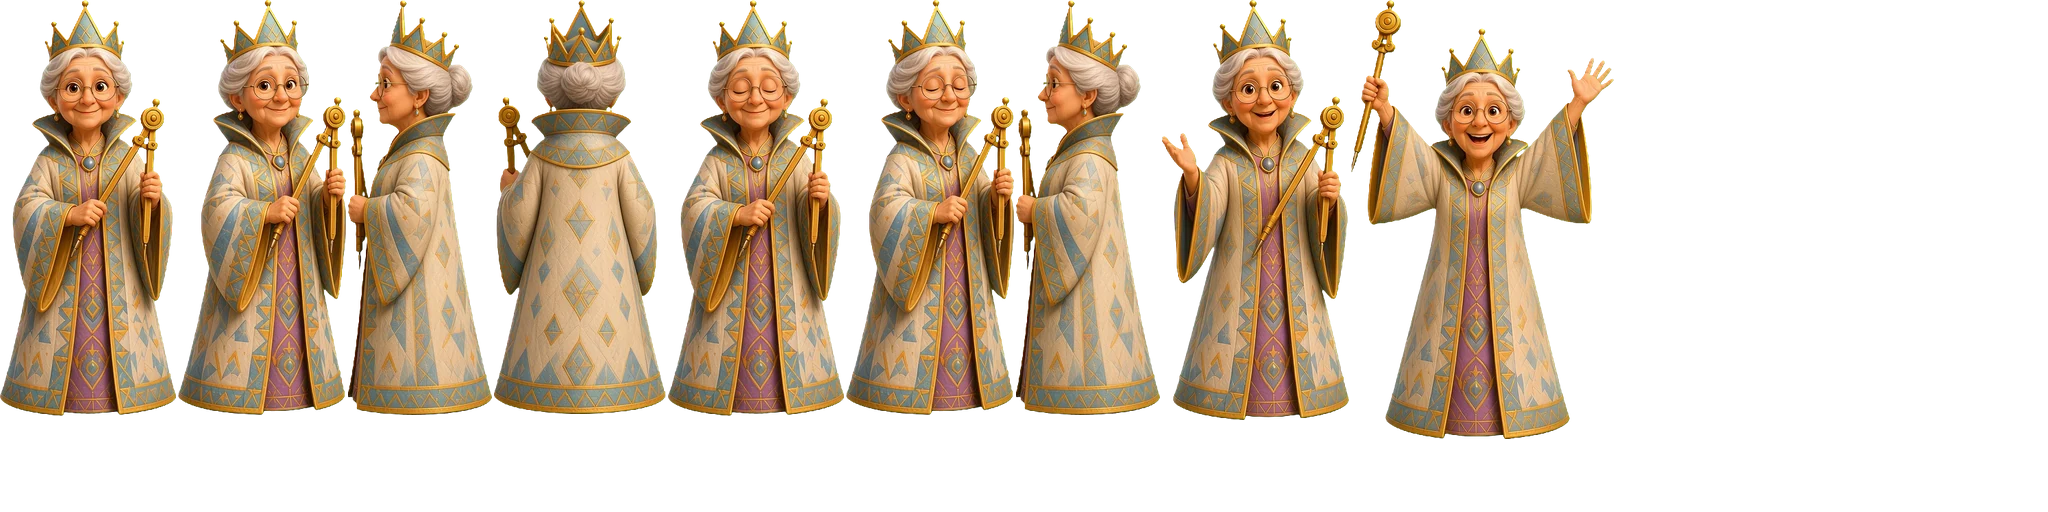
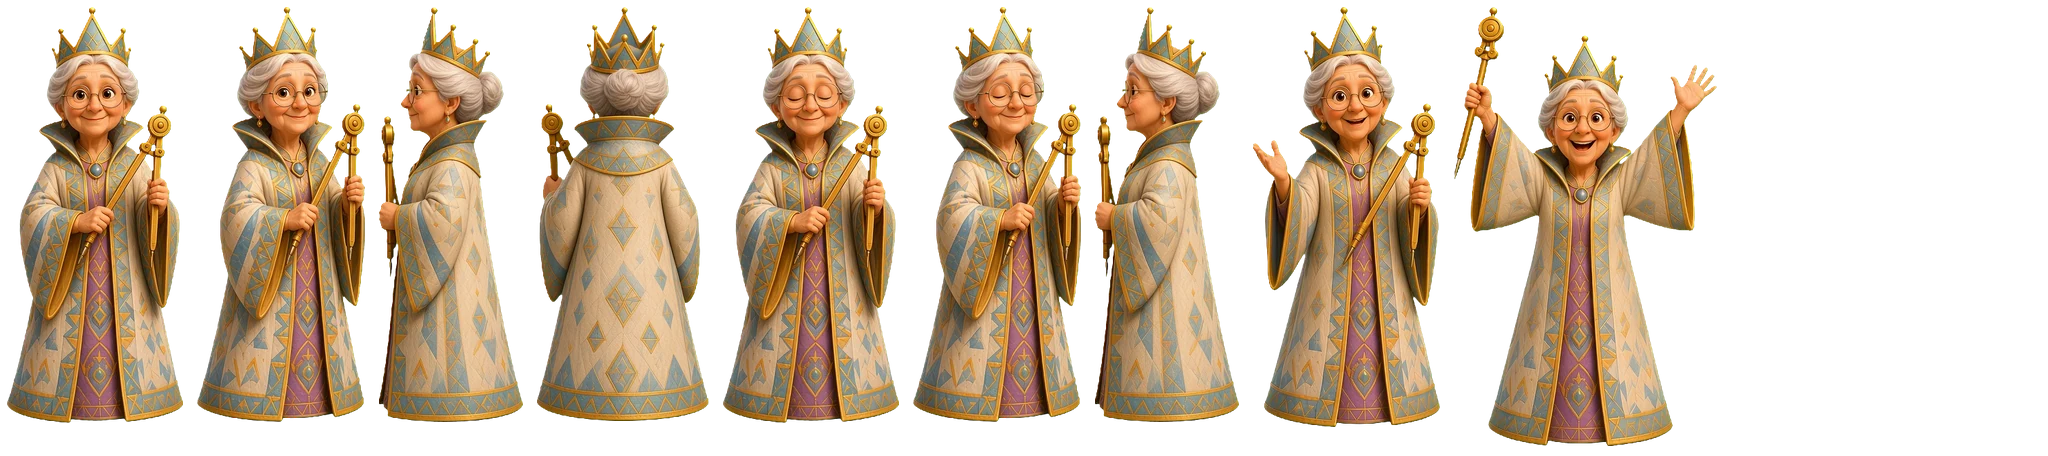
R3: 2.5D-герои из нарисованных атласов (виды, бег, позы, моргание)

diff --git a/js/world.js b/js/world.js
@@ -118,102 +118,10 @@ function capTop(r,th,c,p,x,y,z){return mesh(new THREE.SphereGeometry(r,28,14,0,M
 function spike(p,c,d,r0,len,w){d=d.clone().normalize();const m=mesh(GEO.cone,c,0,0,0,p,[w,len,w]);m.position.copy(d).multiplyScalar(r0+len*.38);m.quaternion.setFromUnitVectors(V3(0,1,0),d);return m}
 function sdir(pol,az){return V3(Math.sin(pol)*Math.sin(az),Math.cos(pol),Math.sin(pol)*Math.cos(az))}
 function rng(seed){let s=seed||7;return()=>{s=(s*9301+49297)%233280;return s/233280}}
-function makeDania(){const root=new THREE.Group(),body=new THREE.Group();root.add(body);const skin=0xffcfa8,hoodie=0xf57a1a,hoodD=0xd9600c,blue=0x3768b8,shoe=0x3a72c4;
- const legs=[],arms=[];
- for(const s of [-1,1]){const hip=grp(body,s*.12,.6,0);capsule(.066,.24,skin,hip,0,-.3,0);mesh(GEO.cyl,blue,0,-.08,0,hip,[.155,.26,.165]);
-  mesh(GEO.cyl,0xffffff,0,-.46,0,hip,[.074,.11,.074]);mesh(GEO.cyl,0xf2c84a,0,-.425,0,hip,[.077,.018,.077]);
-  const sh=grp(hip,0,-.53,.05);mesh(GEO.box,0xf6f3ec,0,-.04,0,sh,[.17,.05,.33]);ell(shoe,sh,0,.01,.01,.1,.075,.165);ell(shoe,sh,0,.045,-.08,.085,.075,.08);
-  for(let i=0;i<3;i++)mesh(GEO.box,0xffffff,0,.07-i*.012,.04+i*.035,sh,[.075,.014,.014]);legs.push(hip)}
- const torso=grp(body,0,.95,0);mesh(new THREE.CapsuleGeometry(.25,.2,6,16),hoodie,0,0,0,torso,[1.08,1,.84]);mesh(GEO.cyl,hoodD,0,-.27,0,torso,[.265,.07,.22]);
- ell(hoodD,torso,0,-.13,.165,.17,.075,.05);
- const tri=new THREE.Mesh(new THREE.RingGeometry(.06,.095,3),M(0xffdc3a,{em:0x6a5000,ei:.35}));tri.rotation.z=Math.PI/2;tri.position.set(0,.06,.214);torso.add(tri);
- for(const s of [-1,1]){const st=mesh(GEO.cylL,0xffffff,s*.055,.17,.2,torso,[.013,.14,.013]);st.rotation.x=-.25;mesh(GEO.sphL,0xffffff,s*.055,.1,.215,torso,.022)}
- const hood=mesh(new THREE.TorusGeometry(.17,.075,8,18),hoodie,0,.27,-.05,torso);hood.rotation.x=Math.PI/2.3;ell(hoodie,torso,0,.15,-.19,.2,.18,.1);
- mesh(GEO.cyl,skin,0,.36,0,torso,[.075,.1,.075]);
- for(const s of [-1,1]){const sh=grp(torso,s*.3,.17,0);capsule(.074,.24,hoodie,sh,0,-.17,0);mesh(GEO.cyl,hoodD,0,-.33,0,sh,[.078,.05,.078]);ell(skin,sh,0,-.4,0,.075,.08,.075);arms.push(sh)}
- const wand=grp(arms[1],0,-.4,0);wand.rotation.x=-1.05;const st=mesh(GEO.cylL,0xd4a020,0,0,.2,wand,[.022,.42,.022]);st.rotation.x=Math.PI/2;
- const star=new THREE.Mesh(starGeo(.13),M(0xffd83a,{em:0xffb000,ei:.5}));star.position.set(0,0,.44);star.rotation.x=1.05;wand.add(star);const glow=new THREE.Sprite(new THREE.SpriteMaterial({map:TEX.dot,color:0xfff2a0,transparent:true,depthWrite:false,blending:THREE.AdditiveBlending}));glow.position.copy(star.position);glow.scale.setScalar(.5);wand.add(glow);
- const head=grp(body,0,1.52,0);mesh(GEO.sph,skin,0,0,0,head,.4);const F=makeFace('dania');faceCap(F,.4,head,0,0,1.9,1.5);
- for(const s of [-1,1])ell(skin,head,s*.39,-.03,0,.07,.1,.07);ell(0xffbf98,head,0,-.07,.395,.045,.04,.04);
- const hc=0x7a3d18,hd=0x5c2a0e;const cap=capTop(.43,1.6,hc,head,0,.01,-.01);cap.rotation.x=-.55;for(const s of [-1,1]){spike(head,hd,V3(s*1,.25,-.1),.34,.2,.1);spike(head,hc,V3(s*1,.05,-.35),.34,.18,.1)}
- for(let i=0;i<8;i++)spike(head,i%2?hd:hc,sdir(.42,i/8*6.283+.3),.33,.24,.1);
- for(let i=0;i<11;i++){const az=Math.PI*.42+i/11*Math.PI*1.16;spike(head,i%2?hc:hd,sdir(1.0+(i%3)*.12,az),.33,.22,.1)}
- spike(head,hc,V3(.05,1,.1),.36,.3,.11);
- [[-.55,.95,.22],[-.2,.85,.24],[.15,.82,.24],[.5,.9,.22],[.85,1.1,.2]].forEach(([az,pol,l],i)=>{const d=sdir(pol,az);d.x+=.35;spike(head,i%2?hd:hc,d,.34,l,.095)});
- const ch={n:'dania',root,body,legs,arms,head,torso,wand,star,glow,F,h:2.0,ph:0,kickT:-9,anim:'idle',look:null,air:0,sit:0,cheerT:-9};
- ch.update=function(dt,sp){this.F.step(dt,'dania');const a=this.anim;this.ph+=dt*(4+sp*2.2);const run=a==='run'?Math.min(1,sp/4):0;
-  const sw=Math.sin(this.ph)*.85*run,br=Math.sin(T*2.3);let hl=sw,hr=-sw,al=-sw*.8,ar=sw*.8,by=Math.abs(Math.sin(this.ph))*.08*run+br*.008,tilt=run*.14;
-  if(a==='air'){hl=-.5;hr=.3;al=-2.4;ar=-2.2;by=0}
-  if(a==='sit'){hl=hr=-1.45;al=ar=-.5;by=-.46}
-  if(T-this.kickT<.35){const u=(T-this.kickT)/.35;hr=-Math.sin(u*Math.PI)*1.6;al=-.6;}
-  if(this.hold){ar=-1.45;this.glow.scale.setScalar(.7+Math.sin(T*12)*.12)}else this.glow.scale.setScalar(.45);
-  if(T-this.cheerT<1.6){al=-2.7+Math.sin(T*14)*.25;ar=-2.7-Math.sin(T*14)*.25;by+=Math.abs(Math.sin((T-this.cheerT)*6))*.12}
-  if(talking('dania')&&a!=='run'){al=-.3+Math.sin(T*3)*.2}
-  if(a==='idle'&&!this.hold&&T-this.cheerT>1.6&&!talking('dania')){al=.06+br*.04;ar=-.25+br*.04}
-  this.legs[0].rotation.x=lerp(this.legs[0].rotation.x,hl,.4);this.legs[1].rotation.x=lerp(this.legs[1].rotation.x,hr,.4);this.arms[0].rotation.x=lerp(this.arms[0].rotation.x,al,.35);this.arms[1].rotation.x=lerp(this.arms[1].rotation.x,ar,.35);
-  this.arms[0].rotation.z=-.14-run*.1;this.arms[1].rotation.z=.14+run*.1;this.body.position.y=by;this.body.rotation.x=tilt;this.body.rotation.y=Math.sin(this.ph)*.12*run;
-  this.torso.scale.set(1+br*.012,1+br*.02,1+br*.012);this.head.position.y=1.52+br*.012+Math.abs(Math.sin(this.ph))*.02*run;this.head.rotation.z=a==='idle'?Math.sin(T*.9)*.06:0;lookHead(this,1.4)};
- CHARS.push(ch);SCENE.add(root);ch.shadow=blobShadow();ch.shadow.scale.setScalar(1.1);return ch}
-// голова поворачивается к камере (или к цели), глаза тоже
-function lookHead(ch,lim){const hp=new THREE.Vector3();ch.head.getWorldPosition(hp);const tg=ch.look||CAM.position;const dx=tg.x-hp.x,dz=tg.z-hp.z,dy=tg.y-hp.y;let ya=Math.atan2(dx,dz)-ch.root.rotation.y-(ch.body.rotation.y||0);ya=Math.atan2(Math.sin(ya),Math.cos(ya));
- const back=Math.abs(ya)>lim+.6;const t=back?0:clamp(ya,-lim*.6,lim*.6);ch.head.rotation.y=lerp(ch.head.rotation.y,t,.12);ch.F.lx=back?0:clamp((ya-t)*1.5,-1,1);ch.F.ly=clamp(-Math.atan2(dy,Math.hypot(dx,dz))*1.2,-1,1)}
-function makeKrug(){const root=new THREE.Group(),body=new THREE.Group();root.add(body);const col=0xffbf2a;
- const skinT=cvTex(256,128,(x,w,h)=>{const g=x.createLinearGradient(0,0,0,h);g.addColorStop(0,'#ffd75a');g.addColorStop(1,'#f5a81e');x.fillStyle=g;x.fillRect(0,0,w,h);x.strokeStyle='rgba(255,240,180,.5)';x.lineWidth=2;const r=rng(5);for(let i=0;i<9;i++){x.beginPath();x.moveTo(0,r()*h);x.bezierCurveTo(w*.3,r()*h,w*.7,r()*h,w,r()*h);x.stroke()}});
- const ball=grp(body,0,.56,0);mesh(GEO.sph,new THREE.MeshLambertMaterial({map:skinT,emissive:0x6a3000,emissiveIntensity:.12}),0,0,0,ball,.46);const F=makeFace('krug');faceCap(F,.46,ball,0,0,1.7,1.45);
- const shine=ell(M(0xffffff,{basic:1,op:.35}),ball,-.18,.26,.3,.1,.06,.03);shine.rotation.z=.6;
- const feet=[],hands=[];for(const s of [-1,1]){const f=grp(body,s*.16,0,.05);ell(0xf09a12,f,0,.06,.04,.12,.065,.17);ell(0xf09a12,f,0,.13,-.02,.06,.07,.06);feet.push(f);
-  const h=grp(ball,s*.44,-.04,.02);const fl=ell(col,h,s*.06,-.04,0,.06,.13,.075);fl.rotation.z=s*.7;hands.push(h)}
- const ch={n:'krug',root,body,ball,head:ball,F,feet,hands,h:1.02,ph:0,anim:'idle',look:null,hop:0,roll:0,cheerT:-9};
- ch.update=function(dt,sp){this.F.step(dt,'krug');this.ph+=dt*(sp>0.3?9:0);let hop=sp>.3?Math.abs(Math.sin(this.ph))*.22:0;
-  if(T-this.cheerT<1.6)hop=Math.abs(Math.sin((T-this.cheerT)*7))*.35;this.hop=hop;this.body.position.y=hop;const br=Math.sin(T*2.6);
-  this.ball.scale.set(1+br*.018,1-br*.018,1+br*.018);const ch2=T-this.cheerT<1.6,tk=talking('krug');
-  this.hands[0].rotation.z=ch2?-1.9+Math.sin(T*14)*.3:tk?-.4-Math.sin(T*8)*.35:Math.sin(T*1.6)*.12;this.hands[1].rotation.z=ch2?1.9-Math.sin(T*14)*.3:tk?.4+Math.sin(T*8)*.35:-Math.sin(T*1.6)*.12;
-  const fs=sp>.3?Math.sin(this.ph)*.5:0;this.feet[0].rotation.x=fs;this.feet[1].rotation.x=-fs;
-  this.ball.rotation.z=Math.sin(T*1.7)*.05;lookHead(this,1.2)};
- CHARS.push(ch);SCENE.add(root);ch.shadow=blobShadow();ch.shadow.scale.setScalar(1);return ch}
-function makeQueen(){const root=new THREE.Group(),body=new THREE.Group();root.add(body);const robe=0xefe6cf,skin=0xffd6bc,gold=M(0xe8b22a,{em:0x7a5000,ei:.35}),hair=0xdedde6;
- const pat=cvTex(256,256,(x,w,h)=>{x.fillStyle='#f1e8d0';x.fillRect(0,0,w,h);x.strokeStyle='#d9a93a';x.lineWidth=4;for(let r=0;r<=4;r++){x.beginPath();x.moveTo(0,r*64);x.lineTo(w,r*64);x.stroke()}const cs=['#6fa4dc','#d9a93a','#2f5fa8'];for(let r=0;r<4;r++)for(let c=0;c<4;c++){x.fillStyle=cs[(r+c)%3];x.beginPath();const cx=c*64+32+(r%2)*32,cy=r*64+34;x.moveTo(cx,cy-20);x.lineTo(cx+19,cy+16);x.lineTo(cx-19,cy+16);x.fill()}});pat.wrapS=pat.wrapT=THREE.RepeatWrapping;pat.repeat.set(4,2);
- const pm=new THREE.MeshLambertMaterial({map:pat});
- const pts=[];for(let i=0;i<=14;i++){const u=i/14;pts.push(new THREE.Vector2(.66-.42*Math.pow(u,.75)+.03*Math.sin(u*3),u*1.32))}body.add(new THREE.Mesh(new THREE.LatheGeometry(pts,28),pm));
- mesh(new THREE.TorusGeometry(.64,.035,8,32),gold,0,.03,0,body).rotation.x=Math.PI/2;
- const panel=cvTex(64,256,(x,w,h)=>{x.fillStyle='#8a5cc8';x.fillRect(0,0,w,h);x.fillStyle='#e8c050';for(let i=0;i<6;i++){const cy=20+i*42;x.beginPath();x.moveTo(32,cy-12);x.lineTo(44,cy);x.lineTo(32,cy+12);x.lineTo(20,cy);x.fill()}x.fillStyle='#d9a93a';x.fillRect(0,0,6,h);x.fillRect(w-6,0,6,h)});
- const fp=mesh(new THREE.CylinderGeometry(.215,.44,1.25,14,1,true,-.42,.84),new THREE.MeshLambertMaterial({map:panel,side:THREE.DoubleSide}),0,.66,.07,body);
- const torso=grp(body,0,1.42,0);mesh(new THREE.CapsuleGeometry(.21,.2,6,14),pm,0,0,0,torso);mesh(new THREE.CylinderGeometry(.12,.2,.36,12,1,true),M(0x8a5cc8),0,0,.06,torso,[1,1,.9]).material.side=THREE.DoubleSide;
- const col=mesh(new THREE.CylinderGeometry(.34,.2,.36,20,1,true,Math.PI*.3,Math.PI*1.4),new THREE.MeshLambertMaterial({map:pat,side:THREE.DoubleSide}),0,.3,-.02,torso);
- mesh(new THREE.TorusGeometry(.2,.035,8,18),gold,0,.16,0,torso).rotation.x=Math.PI/2;
- const arms=[];for(const s of [-1,1]){const sh=grp(torso,s*.26,.14,0);capsule(.075,.24,robe,sh,0,-.15,0);mesh(new THREE.CylinderGeometry(.08,.17,.3,14,1,true),pm,0,-.32,0,sh).material.side=THREE.DoubleSide;ell(skin,sh,0,-.49,0,.07,.075,.07);arms.push(sh)}
- const sc=grp(arms[1],0,-.49,.03);for(const s of [-1,1]){const l=mesh(GEO.cylL,gold,s*.08,.15,0,sc,[.032,1.3,.032]);l.rotation.z=-s*.12}
- mesh(GEO.cyl,gold,0,.82,0,sc,[.07,.05,.07]).rotation.x=Math.PI/2;mesh(GEO.cylL,gold,0,.93,0,sc,[.03,.16,.03]);mesh(GEO.sph,gold,0,1.03,0,sc,.05);
- mesh(GEO.cone,0x555566,.155,-.56,0,sc,[.02,.12,.02]).rotation.x=Math.PI;mesh(GEO.cone,0x3a5fb0,-.155,-.56,0,sc,[.03,.12,.03]).rotation.x=Math.PI;
- const head=grp(body,0,1.9,0);mesh(GEO.sph,skin,0,0,0,head,.31);const F=makeFace('queen');faceCap(F,.31,head,0,0,1.9,1.5);ell(0xffc4a8,head,0,-.05,.305,.04,.035,.035);
- const hc=capTop(.33,1.25,hair,head,0,.01,-.02);hc.rotation.x=-.5;ell(hair,head,0,.3,-.18,.17,.15,.17);for(const s of [-1,1])ell(hair,head,s*.27,-.02,-.08,.08,.14,.12);
- const cr=grp(head,0,.27,.02);cr.rotation.x=-.12;mesh(new THREE.CylinderGeometry(.22,.2,.1,20),gold,0,0,0,cr);const blue=M(0x6fa8e0,{em:0x1a3a70,ei:.4});
- for(let i=0;i<5;i++){const a=i/5*6.283;const x=Math.sin(a)*.17,z=Math.cos(a)*.17;mesh(GEO.cone,i%2?blue:gold,x,.2,z,cr,[.06,.32,.06]);mesh(GEO.sph,gold,x,.37,z,cr,.035)}
- mesh(GEO.cone,blue,0,.26,0,cr,[.1,.42,.1]);mesh(GEO.sph,M(0xff5a7a,{em:0x801020,ei:.4}),0,0,.205,cr,.045);
- const ch={n:'queen',root,body,head,torso,arms,F,h:2.6,anim:'idle',look:null,cheerT:-9};
- ch.update=function(dt){this.F.step(dt,'queen');const br=Math.sin(T*1.8);this.torso.position.y=1.42+br*.012;this.torso.scale.set(1+br*.01,1+br*.015,1+br*.01);this.head.position.y=1.9+br*.014;const tk=talking('queen');this.arms[1].rotation.x=lerp(this.arms[1].rotation.x,tk?-.7+Math.sin(T*3)*.12:-.22,.1);this.arms[0].rotation.x=lerp(this.arms[0].rotation.x,tk?-.4+Math.sin(T*2.5)*.2:0,.1);
-  this.arms[0].rotation.z=-.2;this.arms[1].rotation.z=.18;this.body.rotation.z=Math.sin(T*1.1)*.015;this.head.rotation.z=Math.sin(T*.8)*.04;lookHead(this,1.2)};
- CHARS.push(ch);SCENE.add(root);ch.shadow=blobShadow();ch.shadow.scale.setScalar(1.5);return ch}
-// Кривуля: клубок тонких фиолетовых линий — голова, тело, длинные спутанные руки и ноги, глаза и корона
 function tanglePts(n,seed,R,cy){const rn=rng(seed);const P=[];for(let i=0;i<n;i++){const a=rn()*6.283,b=(rn()-.5)*2.6;P.push(V3(Math.cos(a)*Math.cos(b)*R,cy+Math.sin(b)*R,Math.sin(a)*Math.cos(b)*R))}return P}
 function blobPts(n,seed,c,rx,ry,rz,avoid){const rn=rng(seed);const P=[];while(P.length<n){const a=rn()*6.283,b=(rn()-.5)*3,k=.75+rn()*.3;const v=V3(Math.cos(a)*Math.cos(b)*rx*k,Math.sin(b)*ry*.6*k,Math.sin(a)*Math.cos(b)*rz*k);if(avoid&&avoid(v))continue;P.push(v.add(c))}return P}
 function limbPts(a,b,amp,n,seed,curl){const rn=rng(seed);const P=[];for(let i=0;i<=n;i++){const t=i/n;const p=a.clone().lerp(b,t);const e=Math.sin(t*Math.PI)*amp;p.x+=(rn()-.5)*e;p.y+=(rn()-.5)*e*.6;p.z+=(rn()-.5)*e;P.push(p)}
  if(curl){for(let i=1;i<=8;i++){const an=i/8*6.283;P.push(b.clone().add(V3(Math.cos(an)*curl-curl,Math.sin(an)*curl*.25,Math.sin(an)*curl)))}}return P}
-function makeKriv(){const root=new THREE.Group(),body=new THREE.Group();root.add(body);const mat=new THREE.MeshLambertMaterial({color:0x9a4fe0,emissive:0x2a0050,emissiveIntensity:.5}),mat2=new THREE.MeshLambertMaterial({color:0x6a2aa8,emissive:0x1a0030,emissiveIntensity:.4});
- const tube=(P,r,m,p,closed)=>{const t=new THREE.Mesh(new THREE.TubeGeometry(new THREE.CatmullRomCurve3(P,!!closed),P.length*10,r,6,!!closed),m);p.add(t);return t};
- const tg=grp(body,0,0,0);const tb=tube(blobPts(34,11,V3(0,1.2,0),.42,.7,.32),.045,mat,tg,true);tube(blobPts(24,23,V3(0,1.15,0),.36,.6,.28),.03,mat2,tg,true);
- const head=grp(body,0,1.95,.05);mesh(GEO.sph,new THREE.MeshLambertMaterial({map:TEX.yarn,color:0xc090ff,emissive:0x200040,emissiveIntensity:.4}),0,0,0,head,.46);const F=makeFace('kriv');faceCap(F,.46,head,0,0,1.6,1.3);
- const front=v=>v.z>.12&&Math.abs(v.x)<.42&&v.y<.32&&v.y>-.36;tube(blobPts(36,37,V3(0,0,0),.6,1.05,.58,front),.04,mat,head,true);tube(blobPts(26,41,V3(0,.05,-.05),.56,1,.54,front),.03,mat2,head,true);
- const arms=[],legs=[];for(const s of [-1,1]){const ar=grp(tg,s*.3,1.45,0);tube(limbPts(V3(0,0,0),V3(s*.7,-.55,.15),.22,9,s>0?51:57,.09),.035,mat,ar);tube(limbPts(V3(0,-.05,0),V3(s*.66,-.5,.1),.18,8,s>0?61:67),.022,mat2,ar);arms.push(ar);
-  const lg=grp(tg,s*.17,.72,0);tube(limbPts(V3(-s*.05,.18,0),V3(s*.1,-.64,.06),.16,8,s>0?71:77),.04,mat,lg);tube(limbPts(V3(0,0,0),V3(s*.08,-.62,.0),.14,7,s>0?81:87),.025,mat2,lg);
-  const ft=mesh(new THREE.TorusGeometry(.11,.03,6,16),mat,s*.12,-.66,.08,lg);ft.rotation.x=Math.PI/2;ft.scale.set(1,1.4,1);legs.push(lg)}
- const gold=M(0xf0be30,{em:0x7a5000,ei:.4});const cr=grp(head,.04,.52,0);cr.rotation.z=-.18;mesh(GEO.cyl,gold,0,0,0,cr,[.28,.13,.28]);for(let i=0;i<5;i++){const a=i/5*6.283;mesh(GEO.cone,gold,Math.sin(a)*.23,.16,Math.cos(a)*.23,cr,[.07,.22,.07]);mesh(GEO.sph,gold,Math.sin(a)*.23,.28,Math.cos(a)*.23,cr,.035)}
- mesh(GEO.sph,M(0x5ad06a,{em:0x105020,ei:.4}),0,0,.28,cr,.05);
- const ch={n:'kriv',root,body,head,tg,tube:tb,F,cr,arms,legs,h:2.95,anim:'idle',look:null,cheerT:-9};
- ch.update=function(dt){this.F.step(dt,'kriv');const tk=talking('kriv'),br=Math.sin(T*2.2);this.tg.rotation.y=Math.sin(T*.7)*.25;this.tg.scale.set(1+br*.03,1+br*.02,1+br*.03);this.head.position.y=1.95+br*.035;
-  this.arms[0].rotation.z=-.15+Math.sin(T*(tk?5:1.8))*(tk?.35:.12);this.arms[1].rotation.z=.15-Math.sin(T*(tk?5:1.8)+1)*(tk?.35:.12);this.arms[0].rotation.x=Math.sin(T*1.3)*.15;this.arms[1].rotation.x=-Math.sin(T*1.3)*.15;
-  this.legs[0].rotation.z=Math.sin(T*1.6)*.04;this.legs[1].rotation.z=-Math.sin(T*1.6)*.04;this.body.rotation.z=Math.sin(T*1.5)*.035;lookHead(this,1.3)};
- CHARS.push(ch);SCENE.add(root);ch.shadow=blobShadow();ch.shadow.scale.setScalar(1.8);return ch}
 function removeChar(ch){if(!ch)return;SCENE.remove(ch.root);if(ch.shadow)SCENE.remove(ch.shadow);const i=CHARS.indexOf(ch);if(i>=0)CHARS.splice(i,1)}
 function place(ch,x,z,yaw){ch.root.position.set(x,groundAt(x,z),z);if(yaw!=null)ch.root.rotation.y=yaw}
 function faceTo(ch,x,z){ch.root.rotation.y=Math.atan2(x-ch.root.position.x,z-ch.root.position.z)}
@@ -257,7 +165,7 @@ function shot(px,py,pz,lx,ly,lz,k){CAMS.mode='shot';CAMS.sp=V3(px,py,pz);CAMS.sl
 const TALKCH={dania:()=>DANIA,krug:()=>KRUG,queen:()=>QUEEN,kriv:()=>KRIV};
 function talkFrame(){if(typeof CUT==='undefined'||!CUT||!TALK||CAMS.wide||T-TALK.t0<1.1)return null;const g=TALKCH[TALK.who==='narr'&&scene==='intro'?'dania':TALK.who];const c=g&&g();if(!c||!c.root.visible||!c.root.parent)return null;
  const p=c.root.position,hh=c.h,D=clamp(hh*2.1,3.6,6.4);let vx=CAMS.sl.x-CAMS.sp.x,vz=CAMS.sl.z-CAMS.sp.z;const n=Math.hypot(vx,vz)||1;vx/=n;vz/=n;
- const fy=c.root.rotation.y+(c.body.rotation.y||0),fx=Math.sin(fy),fz=Math.cos(fy);if(-(vx*fx+vz*fz)<.35){const a=fy+Math.PI+.35;vx=Math.sin(a);vz=Math.cos(a)}
+ const fy=c.vyaw!=null?c.vyaw:c.root.rotation.y,fx=Math.sin(fy),fz=Math.cos(fy);if(-(vx*fx+vz*fz)<.35){const a=fy+Math.PI+.35;vx=Math.sin(a);vz=Math.cos(a)}
  return[V3(p.x-vx*D,p.y+hh*.75+.5,p.z-vz*D),V3(p.x+vx*.6,p.y+hh*.62,p.z+vz*.6)]}
 function followCam(){CAMS.mode='follow';CAMS.k=5}
 function camStep(dt){let P,L;

diff --git a/js/heroes.js b/js/heroes.js
@@ -1,0 +1,60 @@
+'use strict';
+// ===== Герои: нарисованные 2.5D-персонажи из атласов assets/heroes/*.webp (по refs/lineup.jpg) =====
+// виды спереди / 3/4 / сбоку / сзади, бег (3 направления × 4 кадра), позы (ура, ой, сидя, колдует, прыжок), моргание, дыхание, взгляд на ребёнка
+const HTEX={};
+const SPR_READY=Promise.all(Object.keys(HMETA).map(n=>new Promise(res=>{const t=new THREE.TextureLoader().load('assets/heroes/'+n+'.webp',()=>res(),undefined,()=>{console.warn('hero atlas',n);res()});t.colorSpace=THREE.SRGBColorSpace;t.anisotropy=4;HTEX[n]=t})));
+window.SPR_READY=SPR_READY;
+const HGEO=new THREE.PlaneGeometry(1,1,1,12);HGEO.translate(0,.5,0);
+function heroMat(n){const m=new THREE.MeshBasicMaterial({map:HTEX[n],transparent:true,alphaTest:.04,depthWrite:true,side:THREE.DoubleSide});
+ const u={uRect:{value:new THREE.Vector4(0,0,1,1)},uDef:{value:new THREE.Vector4(0,0,0,0)},uNeck:{value:.7},uTilt:{value:0}};m.userData.u=u;
+ m.onBeforeCompile=s=>{Object.assign(s.uniforms,u);s.vertexShader='uniform vec4 uRect,uDef;uniform float uNeck,uTilt;\n'+s.vertexShader
+  .replace('#include <uv_vertex>','#include <uv_vertex>\n vMapUv=uRect.xy+uv*uRect.zw;')
+  .replace('#include <begin_vertex>','vec3 transformed=position;float yy=position.y;float chest=smoothstep(.25,.5,yy)*(1.-smoothstep(.6,.78,yy));\n transformed.x*=1.+uDef.x*chest-uDef.y*.5;transformed.y*=1.+uDef.y;transformed.x+=uDef.z*yy;float hk=max(0.,yy-uNeck);transformed.x+=uTilt*hk;')};
+ m.customProgramCacheKey=()=>'hero2';return m}
+const HCFG={dania:{h:2.0,sh:1.1,neck:.7,mood:'happy'},krug:{h:1.02,sh:1,neck:2,mood:'happy'},queen:{h:2.6,sh:1.5,neck:.79,mood:'happy'},kriv:{h:2.95,sh:1.8,neck:.62,mood:'angry'}};
+function makeHero(n){const cf=HCFG[n];const root=new THREE.Group(),body=new THREE.Group();root.add(body);
+ const mat=heroMat(n);mat.userData.u.uNeck.value=cf.neck;const spr=new THREE.Mesh(HGEO,mat);spr.position.z=.14;body.add(spr);
+ const F={mood:cf.mood,lx:0,ly:0,bl:0,nb:1+Math.random()*3,step(dt){this.nb-=dt;if(this.nb<0){this.bl=.15;this.nb=2.2+Math.random()*3.4}if(this.bl>0)this.bl-=dt}};
+ const ch={n,root,body,spr,mat,F,h:cf.h,anim:'idle',look:null,cheerT:-9,kickT:-9,hold:false,ph:0,vyaw:null,hop:0,sp:0,idleT:0,sq:0,wasAir:false,fr:'',mir:false,tg:{visible:true}};
+ ch.update=function(dt,spd){heroUpdate(this,dt,spd||0)};
+ CHARS.push(ch);SCENE.add(root);ch.shadow=blobShadow();ch.shadow.scale.setScalar(cf.sh);heroUpdate(ch,0,0);return ch}
+function makeDania(){return makeHero('dania')}
+function makeKrug(){const c=makeHero('krug');c.mode='follow';return c}
+function makeQueen(){return makeHero('queen')}
+function makeKriv(){return makeHero('kriv')}
+function setFrame(c,name,mir){const A=HMETA[c.n],f=A.f[name]||A.f.st_f;const x=f[0],y=f[1],w=f[2],h=f[3],ax=f[4],hu=f[5];
+ c.mat.userData.u.uRect.value.set(x/A.w,1-(y+h)/A.h,w/A.w,h/A.h);const W=w/h*hu;c.spr.scale.set(mir?-W:W,hu,1);c.spr.position.x=(w/2-ax)/w*W*(mir?-1:1);c.fr=name;c.mir=!!mir}
+const _hp=new THREE.Vector3();const angW=a=>Math.atan2(Math.sin(a),Math.cos(a));
+function heroUpdate(c,dt,sp){c.F.step(dt);c.root.getWorldPosition(_hp);
+ const ca=Math.atan2(CAM.position.x-_hp.x,CAM.position.z-_hp.z),ry=c.root.rotation.y;c.body.rotation.y=ca-ry;// плоскость всегда к камере (только вокруг вертикали)
+ const cheer=T-c.cheerT<1.6,tk=typeof talking==='function'&&talking(c.n),cut=typeof CUT!=='undefined'&&CUT,sit=c.anim==='sit';
+ const oops=(c.n==='dania'||c.n==='krug')&&DANIA&&DANIA.F.mood==='sad';
+ let want=ry;
+ if(c.n==='dania'){const still=c.anim==='idle'&&!c.hold&&!cut;c.idleT=still?c.idleT+dt:0;if((cheer||oops)&&!sit)want=ca;else if(c.idleT>2.5&&SCN&&SCN.world)want=ca}// заскучал — смотрит на ребёнка
+ if(c.n==='krug'&&(cheer||oops)&&!sit&&c.sp<.3)want=ca;
+ if(c.vyaw==null||!dt)c.vyaw=want;else c.vyaw+=angW(want-c.vyaw)*Math.min(1,dt*7);
+ const rel=angW(c.vyaw-ca),ar=Math.abs(rel)*57.3,rt=Math.sin(rel)>0;// rt: смотрит вправо на экране
+ const v=ar<35?'f':ar<70?'q':ar<125?'s':'b';
+ let fr=(c.F.bl>0&&v!=='b'?'bl_':'st_')+v,mir=(v==='q'||v==='s')&&rt,yo=0,lean=0,tilt=Math.sin(T*.9+c.h)*.015;
+ const br=Math.sin(T*2.2+c.h*3)*.018;
+ const air=c.n==='dania'&&c.anim==='air';if(c.wasAir&&!air)c.sq=.13;c.wasAir=air;c.sq=Math.max(0,c.sq-dt*.6);
+ if(c.n==='dania'){
+  if(sit){fr=ar<100?'sitf':'sitb';mir=ar<100&&ar>20&&rt}
+  else if(oops){fr='oops';mir=false;tilt=Math.sin(T*3)*.03}
+  else if(cheer){fr='cheer';mir=false;yo=Math.abs(Math.sin((T-c.cheerT)*6))*.22*(1-(T-c.cheerT)/1.6)}
+  else if(air){if(ar<55){fr='cheer';mir=false}else if(ar<125){fr='rs1';mir=!rt}else{fr='jumpb';mir=false}}
+  else if(c.anim==='run'){c.ph+=dt*(2.6+sp*1.2);const i=Math.floor(c.ph)%4;if(ar<50){fr='rf'+i;mir=false}else if(ar<130){fr='rs'+i;mir=!rt}else{fr='rb'+i;mir=false}}
+  else if(c.hold&&ar>100){fr='cast';mir=false}
+  if(T-c.kickT<.35){const u=(T-c.kickT)/.35;lean=Math.sin(u*Math.PI)*.12*(mir?-1:1);c.sq=Math.max(c.sq,Math.sin(u*Math.PI)*.06)}
+  if(tk&&!sit&&c.anim!=='run')tilt=Math.sin(T*5)*.035}
+ else if(c.n==='krug'){
+  if(sp>.3){c.ph+=dt*9;yo=Math.abs(Math.sin(c.ph))*.2;c.sq=Math.max(c.sq,(Math.abs(Math.sin(c.ph))<.25?.1:0))}
+  if(oops&&ar<100){fr='oops';mir=false}
+  else if(cheer){fr='joy';mir=false;yo=Math.abs(Math.sin((T-c.cheerT)*7))*.32}
+  else if(tk&&ar<100){fr='talk';mir=false;yo=Math.abs(Math.sin(T*6))*.03}
+  if(sit)c.sq=.06}
+ else if(c.n==='queen'){if(cheer&&ar<110){fr='cheer';mir=false}else if(tk&&ar<100){fr='talk';mir=false;tilt=Math.sin(T*3)*.03}}
+ else if(c.n==='kriv'){const md=c.F.mood;if(ar<100){if(md==='happy'){fr='happy';mir=false}else if(md==='sad'){fr='sad';mir=false}else if(tk||cheer){fr='shout';mir=false;yo=Math.abs(Math.sin(T*5))*.05}}
+  lean=Math.sin(T*1.5)*.02}
+ c.hop=yo;setFrame(c,fr,mir);c.spr.position.y=yo;
+ const u=c.mat.userData.u;u.uDef.value.set(br,-c.sq,lean,0);u.uTilt.value=tilt}

diff --git a/js/heroes_meta.js b/js/heroes_meta.js
@@ -1,1 +1,1 @@
-const HMETA={"dania":{"w":2048,"h":2048,"f":{"st_f":[0,0,191,400,125.0,2.0,0],"st_q":[193,0,178,400,115.0,2.0,0],"st_s":[373,0,171,398,102.0,1.989,0],"st_b":[546,0,176,396,63.0,1.979,0],"bl_f":[724,0,191,400,125.0,2.0,0],"bl_q":[917,0,178,400,115.0,2.0,0],"bl_s":[1097,0,171,398,102.0,1.989,0],"rb0":[1270,0,205,394,88.0,1.972,0],"rb1":[1477,0,195,389,84.0,1.944,0],"rb2":[1674,0,190,388,82.0,1.94,0],"rb3":[0,402,186,389,73.0,1.944,0],"rf0":[188,402,223,391,130.0,1.954,0],"rf1":[413,402,211,392,121.0,1.961,0],"rf2":[626,402,207,389,116.0,1.946,0],"rf3":[835,402,208,388,119.0,1.939,0],"rs0":[1045,402,260,379,133.0,1.894,1],"rs1":[1307,402,271,367,142.0,1.835,1],"rs2":[1580,402,257,381,130.0,1.903,1],"rs3":[0,796,261,354,132.0,1.768,1],"cheer":[263,796,208,395,103.0,1.976,0],"oops":[473,796,194,400,104.0,2.0,0],"sitf":[669,796,195,284,104.0,1.42,0],"sitb":[866,796,175,252,88.0,1.259,0],"cast":[1043,796,178,392,58.0,1.962,0],"jumpb":[1223,796,183,382,89.0,1.91,0]}},"krug":{"w":2048,"h":512,"f":{"st_f":[0,0,267,245,133.0,1.02,0],"st_q":[269,0,249,247,123.0,1.027,0],"st_s":[520,0,215,248,105.0,1.035,0],"st_b":[737,0,252,244,125.0,1.016,0],"bl_f":[991,0,267,245,133.0,1.02,0],"bl_q":[1260,0,249,247,123.0,1.027,0],"bl_s":[1511,0,215,248,105.0,1.035,0],"joy":[1728,0,274,245,137.0,1.02,0],"oops":[0,250,213,246,106.0,1.024,0],"talk":[215,250,265,244,143.0,1.016,0]}},"queen":{"w":2048,"h":512,"f":{"st_f":[0,0,176,416,90.0,2.6,0],"st_q":[178,0,168,415,90.0,2.596,0],"st_s":[348,0,144,415,65.0,2.591,0],"st_b":[494,0,172,414,84.0,2.587,0],"bl_f":[668,0,176,416,90.0,2.6,0],"bl_q":[846,0,168,415,90.0,2.596,0],"bl_s":[1016,0,144,415,65.0,2.591,0],"talk":[1162,0,187,420,100.0,2.625,0],"cheer":[1351,0,263,439,127.0,2.747,0]}},"kriv":{"w":2048,"h":512,"f":{"st_f":[0,0,195,428,100.0,2.95,0],"st_q":[197,0,181,429,92.0,2.955,0],"st_s":[380,0,136,425,63.0,2.934,0],"st_b":[518,0,185,425,91.0,2.929,0],"bl_f":[705,0,195,428,100.0,2.95,0],"bl_q":[902,0,181,429,92.0,2.955,0],"bl_s":[1085,0,136,425,63.0,2.934,0],"happy":[1223,0,269,432,135.0,2.982,0],"sad":[1494,0,169,431,84.0,2.972,0],"shout":[1665,0,259,428,131.0,2.95,0]}}};
+const HMETA={"dania":{"w":2048,"h":1236,"f":{"st_f":[7,7,191,400,125.0,2.0,0],"st_q":[212,7,178,400,115.0,2.0,0],"st_s":[404,7,171,398,102.0,1.989,0],"st_b":[589,7,176,396,63.0,1.979,0],"bl_f":[779,7,191,400,125.0,2.0,0],"bl_q":[984,7,178,400,115.0,2.0,0],"bl_s":[1176,7,171,398,102.0,1.989,0],"rb0":[1361,7,205,394,88.0,1.972,0],"rb1":[1580,7,195,389,84.0,1.944,0],"rb2":[1789,7,190,388,82.0,1.94,0],"rb3":[7,421,186,389,73.0,1.944,0],"rf0":[207,421,223,391,130.0,1.954,0],"rf1":[444,421,211,392,121.0,1.961,0],"rf2":[669,421,207,389,116.0,1.946,0],"rf3":[890,421,208,388,119.0,1.939,0],"rs0":[1112,421,260,379,133.0,1.894,1],"rs1":[1386,421,271,367,142.0,1.835,1],"rs2":[1671,421,257,381,130.0,1.903,1],"rs3":[7,827,261,354,132.0,1.768,1],"cheer":[282,827,208,395,103.0,1.976,0],"oops":[504,827,194,400,104.0,2.0,0],"sitf":[712,827,195,284,104.0,1.42,0],"sitb":[921,827,175,252,88.0,1.259,0],"cast":[1110,827,178,392,58.0,1.962,0],"jumpb":[1302,827,183,382,89.0,1.91,0]}},"krug":{"w":2048,"h":524,"f":{"st_f":[7,7,267,245,133.0,1.02,0],"st_q":[288,7,249,247,123.0,1.027,0],"st_s":[551,7,215,248,105.0,1.035,0],"st_b":[780,7,252,244,125.0,1.016,0],"bl_f":[1046,7,267,245,133.0,1.02,0],"bl_q":[1327,7,249,247,123.0,1.027,0],"bl_s":[1590,7,215,248,105.0,1.035,0],"joy":[7,269,274,245,137.0,1.02,0],"oops":[295,269,213,246,106.0,1.024,0],"talk":[522,269,265,244,143.0,1.016,0]}},"queen":{"w":2048,"h":456,"f":{"st_f":[7,7,176,416,90.0,2.6,0],"st_q":[197,7,168,415,90.0,2.596,0],"st_s":[379,7,144,415,65.0,2.591,0],"st_b":[537,7,172,414,84.0,2.587,0],"bl_f":[723,7,176,416,90.0,2.6,0],"bl_q":[913,7,168,415,90.0,2.596,0],"bl_s":[1095,7,144,415,65.0,2.591,0],"talk":[1253,7,187,420,100.0,2.625,0],"cheer":[1454,7,263,439,127.0,2.747,0]}},"kriv":{"w":2048,"h":888,"f":{"st_f":[7,7,195,428,100.0,2.95,0],"st_q":[216,7,181,429,92.0,2.955,0],"st_s":[411,7,136,425,63.0,2.934,0],"st_b":[561,7,185,425,91.0,2.929,0],"bl_f":[760,7,195,428,100.0,2.95,0],"bl_q":[969,7,181,429,92.0,2.955,0],"bl_s":[1164,7,136,425,63.0,2.934,0],"happy":[1314,7,269,432,135.0,2.982,0],"sad":[1597,7,169,431,84.0,2.972,0],"shout":[7,453,259,428,131.0,2.95,0]}}};

diff --git a/index.html b/index.html
@@ -9,6 +9,6 @@ canvas{position:fixed;left:0;top:0;width:100vw;height:100vh;height:100dvh;displa
 <body><canvas id="g"></canvas><canvas id="c"></canvas><div id="ld">Загрузка…</div>
 <script id="vboot">window.V="20261024d2";(function(){const q=u=>(typeof u==="string"&&/^(assets|fonts|js)\//.test(u)&&u.indexOf("?v=")<0)?u+"?v="+window.V:u;const d=Object.getOwnPropertyDescriptor(HTMLMediaElement.prototype,"src"),di=Object.getOwnPropertyDescriptor(HTMLImageElement.prototype,"src");Object.defineProperty(HTMLImageElement.prototype,"src",{set(u){di.set.call(this,q(u))},get(){return di.get.call(this)}});Object.defineProperty(HTMLMediaElement.prototype,"src",{set(u){d.set.call(this,q(u))},get(){return d.get.call(this)}});const A=window.Audio;window.Audio=function(u){return u===undefined?new A():new A(q(u))};window.Audio.prototype=A.prototype})()</script>
 <script type="module">import * as THREE from "./js/three.module.js?v=20261024d2";import * as CANNON from "./js/cannon-es.js?v=20261024d2";window.THREE=THREE;window.CANNON=CANNON;
-const L=["voice","lines","core","world","levels1","levels2","boss","scenes","bot"];
-(async()=>{for(const n of L){await new Promise((r,j)=>{const s=document.createElement("script");s.src="js/"+n+".js?v="+window.V;s.onload=r;s.onerror=()=>j(n);document.body.appendChild(s)})}startGame()})().catch(e=>{document.getElementById("ld").textContent="Не удалось загрузить игру. Обнови страницу.";console.error(e)});</script>
+const L=["voice","lines","core","world","heroes_meta","heroes","levels1","levels2","boss","scenes","bot"];
+(async()=>{for(const n of L){await new Promise((r,j)=>{const s=document.createElement("script");s.src="js/"+n+".js?v="+window.V;s.onload=r;s.onerror=()=>j(n);document.body.appendChild(s)})}await window.SPR_READY;startGame()})().catch(e=>{document.getElementById("ld").textContent="Не удалось загрузить игру. Обнови страницу.";console.error(e)});</script>
 </body></html>

diff --git a/js/boss.js b/js/boss.js
@@ -64,7 +64,7 @@ LEVELS[6]={cast:{queen:true,kriv:true},build(){groundPlane(TEX.grass,0xc8e888);h
    // превращение: шестиугольник поднимается и становится телом Кривули
    TICK.splice(TICK.indexOf(L.tick2),1);const t0=T;const grp=new THREE.Group();for(const e of edges){WORLD.remove(e);grp.add(e)}grp.position.set(0,0,0);WORLD.add(grp);
    await until(()=>{const k=clamp((T-t0)/1.4,0,1);const s=1-k*.86;grp.scale.set(s,s,s);grp.position.set(-C.x*(s-1)*0,0,C.z*(1-s));return k>=1});WORLD.remove(grp);
-   const hex=mesh(new THREE.TorusGeometry(.72,.14,6,6),M(0xffd23a,{em:0xffa000,ei:.45}),0,.86,-.08,KV.body);hex.rotation.z=Math.PI/6;KV.hex=hex;
+   const hex=mesh(new THREE.TorusGeometry(.72,.14,6,6),M(0xffd23a,{em:0xffa000,ei:.45}),0,1.05,.32,KV.body);hex.rotation.z=Math.PI/6;KV.hex=hex;
    KV.root.position.set(0,0,12);KV.root.rotation.set(0,Math.PI,0);KV.anim='idle';KV.F.mood='happy';burst(V3(0,1.5,12),0xffe066,60,6);SFX.star();
    shot(2.5,2.2,7.5,0,1.3,12,2.4);await say('b_v1');await say('b_v2')});
   // ---- финал: домик — квадрат и треугольник ----

diff --git a/tools/buildsprites.py b/tools/buildsprites.py
@@ -85,12 +85,11 @@ for ch,fr in CH.items():
     th=max(8,round(f['hu']*ppu));im=f['im'].resize((max(4,round(f['im'].width*th/f['im'].height)),th),Image.LANCZOS)
     ims.append(im)
   # упаковка по полкам, ширина 2048
-  AW=2048;x=y=0;rowh=0;pos=[]
+  AW=2048;G=14;x=y=G//2;rowh=0;pos=[]
   for im in ims:
-    if x+im.width+2>AW:x=0;y+=rowh+2;rowh=0
-    pos.append((x,y));x+=im.width+2;rowh=max(rowh,im.height)
-  AH=y+rowh;AH2=1
-  while AH2<AH:AH2*=2
+    if x+im.width+G>AW:x=G//2;y+=rowh+G;rowh=0
+    pos.append((x,y));x+=im.width+G;rowh=max(rowh,im.height)
+  AH2=(y+rowh+G//2+3)//4*4
   at=Image.new('RGBA',(AW,AH2),(0,0,0,0))
   m={'w':AW,'h':AH2,'f':{}}
   for f,im,(px,py) in zip(fr,ims,pos):
